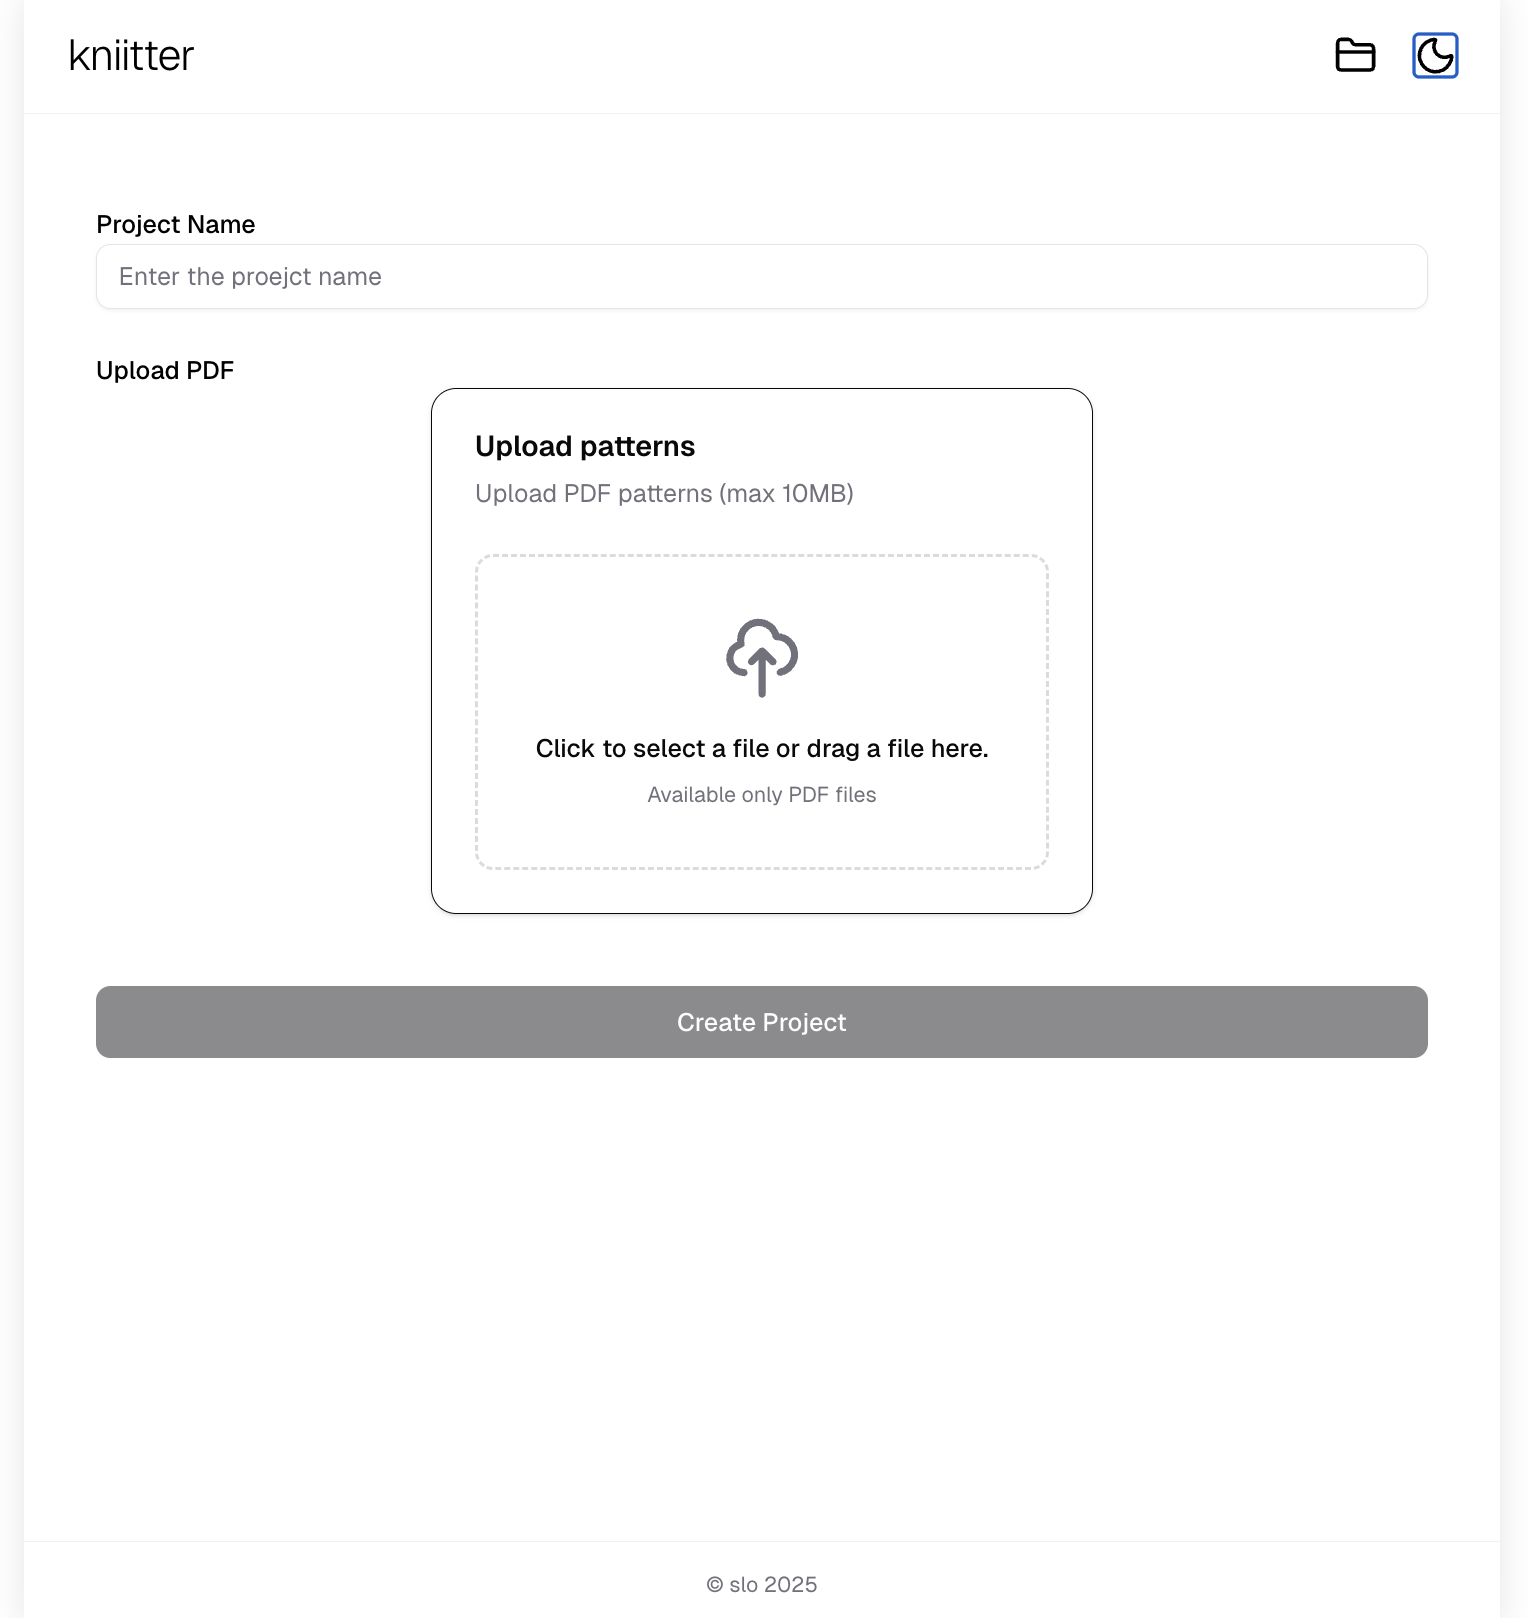
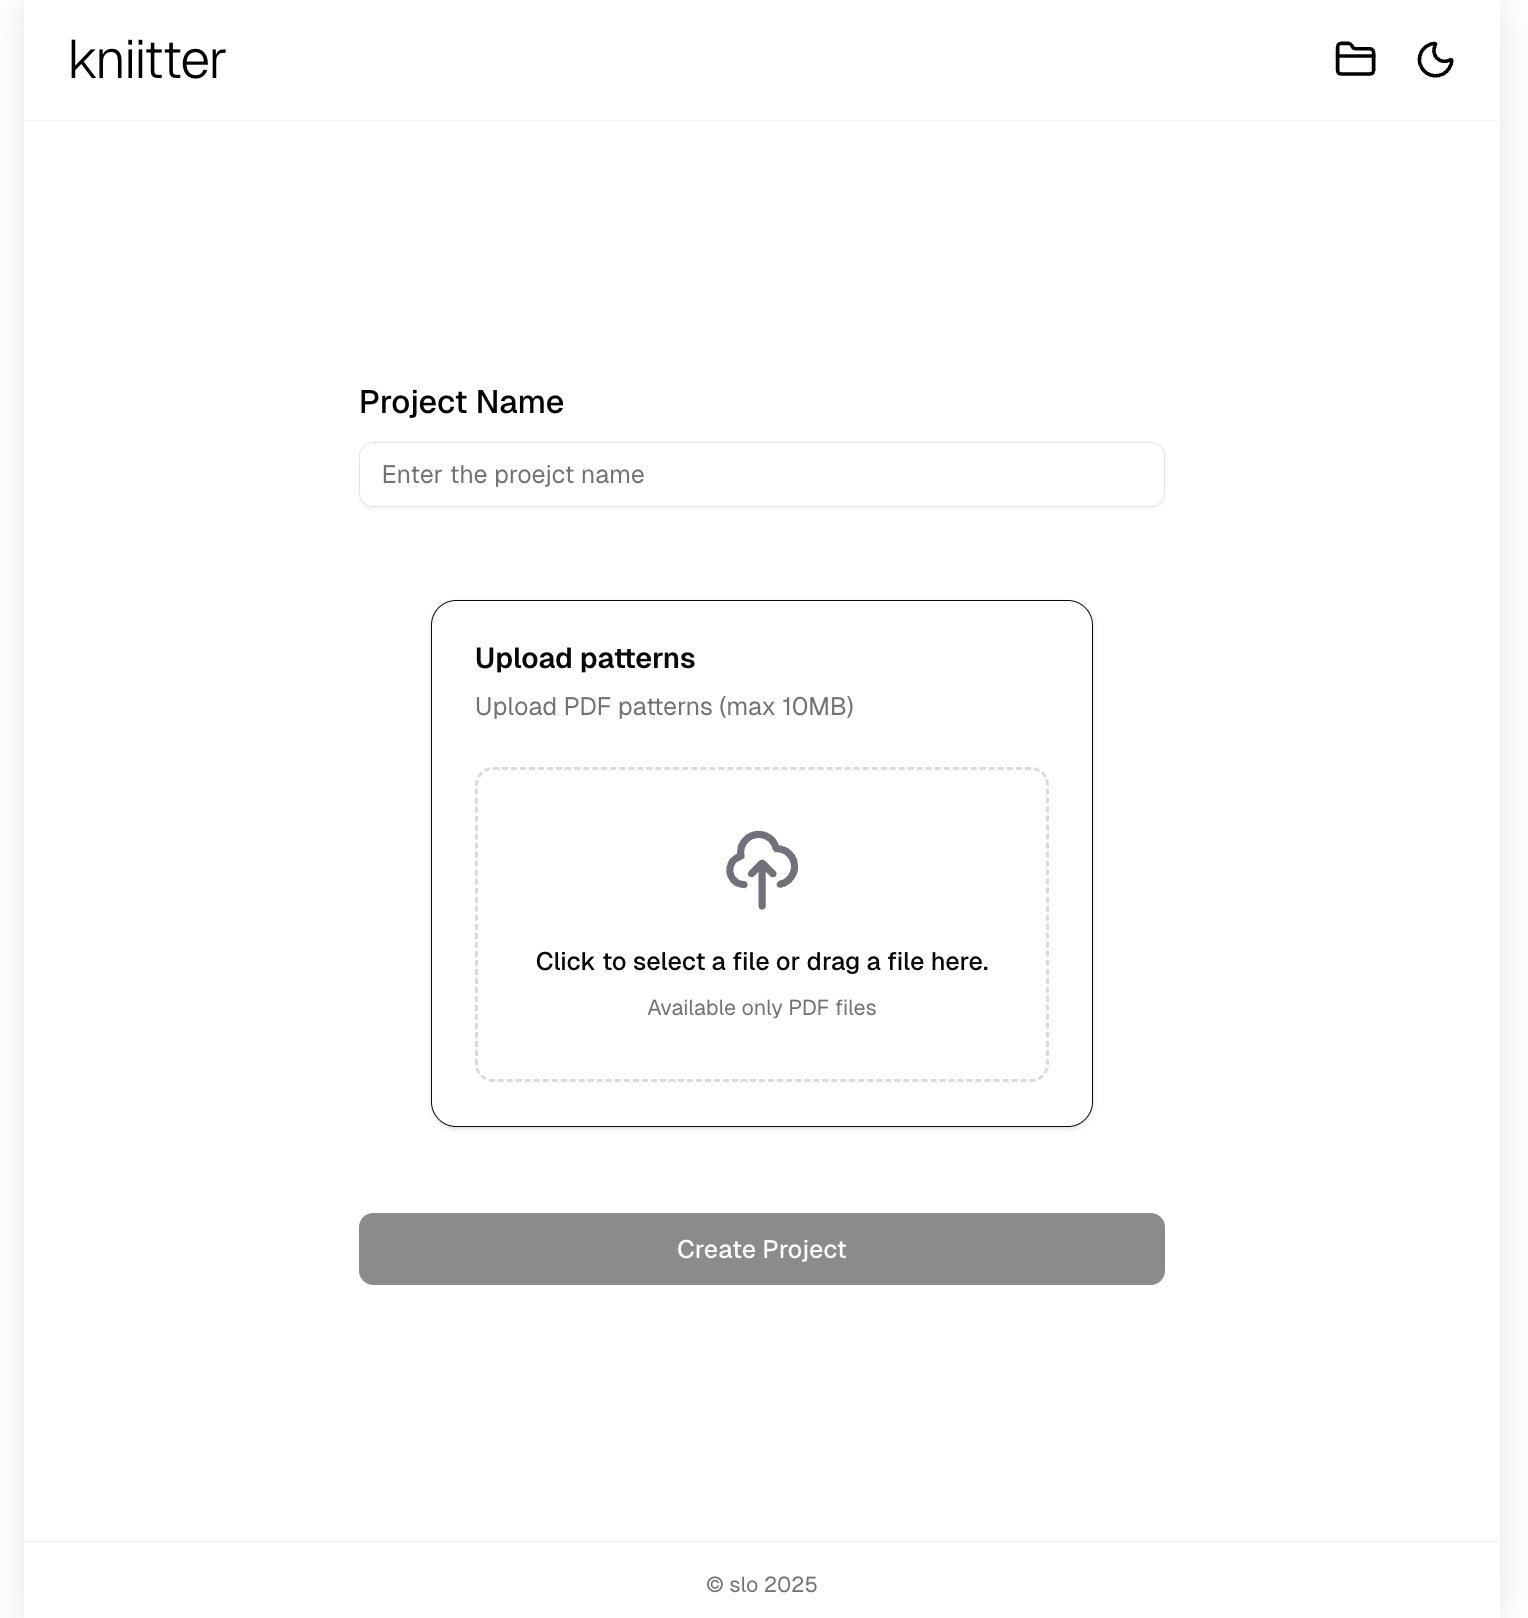
chore: change new page image

diff --git a/app/globals.css b/app/globals.css
@@ -184,16 +184,7 @@
   /* Ensure body stays centered when modal opens */
   body[data-scroll-locked] {
     margin-right: 0 !important;
-    margin-left: auto !important;
-  }
-
-  /* Fix for Radix UI scroll lock - prevent position shift */
-  body[data-scroll-locked="1"] {
-    /* Preserve the centering margin */
-    margin-left: auto !important;
-    margin-right: auto !important;
-    /* Let Radix handle padding for scrollbar, but maintain our max-width centering */
-    max-width: 820px !important;
+    padding-right: 0 !important;
   }
 
   /* Optional: Add subtle borders on desktop to emphasize mobile view */
